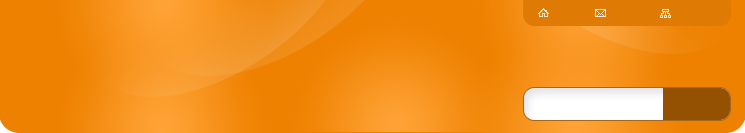
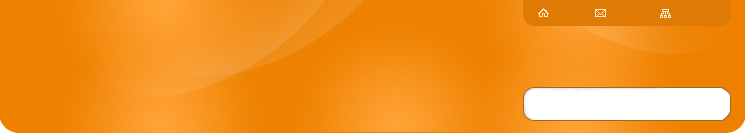
Fixing some errors and implementing fetch api

Changed region(s): [[0.8644, 0.6617, 0.9879, 0.9023]]

diff --git a/blog/static/css/style.css b/blog/static/css/style.css
@@ -16,10 +16,10 @@ form {
     }
 .count{
         position: absolute;
-        bottom: 21px;
-        right: 80px;
+        top: 93px;
+        right: 35px;
         }
-#count2{ margin:0; width: 125px; font-size: 85%; border: 0;color: #ee8100;}
+#count2{ margin:0; width: 180px; font-size: 115%; border: 0;color: #ee8100;}
 #post {
     width: 650px;
     height: 200px;
@@ -388,11 +388,24 @@ a.more:hover{color: #ffddb4;}
                 background-color: #0257d7;
                 color: white;
             }
+
+.button-d{
+        display: flex;
+        flex-direction: row;
+        align-items:center;
+        justify-content:space-between;
+}
 .f-left {float:left; color: white;}
 .f-right {float:right; color: white;}
 #footer  {
+    position: absolute;
+    bottom: 0;
+    left: 0;
+    margin: 0px;
     height: 85px;
     background: url(../img/footer-bg.jpg) repeat-x bottom;
+    width: 100vw;
+    top: 160vh;
     }
 #page-bottom{
         height: 46px;

diff --git a/blog/templates/home.html b/blog/templates/home.html
@@ -8,8 +8,8 @@
             <p>{{ (post.content[:680] + '  ......  ')}} <a href="{{url_for('detail' , post_id = post.id)}}" class="more">MORE</a></p>
         </div>
     {% endfor %}
-    {% if posts.has_prev %}<a href="{{ url_for('home', page=posts.prev_num) }}">&lt;&lt; Newer posts</a>
+    {% if page > 1 %}<a href="{{ url_for('home', page = page - 1) }}">&lt;&lt; Newer posts</a>
     {% else %}&lt;&lt; Newer posts{% endif %} | 
-    {% if posts.has_next %}<a href="{{ url_for('home', page=posts.next_num) }}">Older posts &gt;&gt;</a>
+    {% if count > page * 3 %}<a href="{{ url_for('home', page=page+1) }}">Older posts &gt;&gt;</a>
     {% else %}Older posts &gt;&gt;{% endif %}
 {% endblock content %}

diff --git a/blog/templates/base.html b/blog/templates/base.html
@@ -15,7 +15,7 @@
           <hr class="noscreen" />
           <div id="quicknav"> <a href="{{ url_for('home' , page=1) }}">Home</a> <a href="{{ url_for('about') }}"> . About</a> <a href="{{ url_for('contact') }}">.  Contact us</a> </div>
           <div class="count">
-              <h2 id="count2">Number of users :</h2>
+              <h2 id="count2">Number of users :&nbsp;&nbsp;&nbsp;&nbsp;&nbsp;&nbsp;&nbsp;&nbsp;{{ count }}</h2>
           </div>
         </div>
 {% include 'inc/nav.html' %}
@@ -32,5 +32,6 @@
       <p class="f-right">network</p>
   </div>
   </div>
+  <script src="../static/fechapi.js"></script>
 </body>
 </html>

diff --git a/blog/templates/detail.html b/blog/templates/detail.html
@@ -2,8 +2,10 @@
 
 {% block content %}
     {% if post.author == current_user %}
+    <div class=" button-d">
        <div id="delete"> <a  href="{{ url_for('delete' , post_id=post.id)}}">Delete</a></div>
         <div id="update"> <a  href="{{url_for('update' , post_id=post.id)}}">Update</a></div>
+    </div>
     {%endif %}
     <div>
         <h3>{{ post.title }} </h3>

diff --git a/blog/static/fechapi.js b/blog/static/fechapi.js
@@ -1,0 +1,7 @@
+const url = "http://127.0.0.1:5000/api/fetch";
+
+async function getcount(url) {
+    let x = await fetch(url);
+    let y = await x.text();
+    document.getElementById("count2").innerHTML = `Number of users :&nbsp;&nbsp;&nbsp;&nbsp;&nbsp;&nbsp;&nbsp;&nbsp; ${y} `;  }
+getcount(url);

diff --git a/blog/routes.py b/blog/routes.py
@@ -4,12 +4,22 @@ from blog.form import RegistrationForm , LoginForm , UpdateProfileForm , NewPost
 from blog.models import User , Post
 from flask_login import login_user , current_user , logout_user , login_required
 
-
+@app.route('/')
+def index():
+    return redirect(url_for('home' , page=1))
 @app.route("/index/<int:page>" , methods=['GET'])
 def home(page=1):
     per_page=3
-    posts = Post.query.paginate(page=page ,per_page=per_page ,error_out= False).items
-    return render_template('home.html' , posts=posts)
+    posts = Post.query.order_by(Post.date.desc()).paginate(page=page ,per_page=per_page ,error_out= True).items
+    #count_user = db.session.query(User).count()
+    count_post = db.session.query(Post).count()
+    #render_template('base.html' , count=count_user)
+    return render_template('home.html' , posts=posts , count=count_post ,page=page)
+
+@app.route('/api/fetch')
+def count():
+    count_user = db.session.query(User).count()
+    return str(count_user)
 
 @app.route("/post/<int:post_id>")
 def detail(post_id):
@@ -79,7 +89,7 @@ def login():
             login_user(user , remember=form.remember.data)
             next_page = request.args.get('next')
             flash('You have successfully logged in' , 'success')
-            return redirect(next_page if next_page else url_for('home'))
+            return redirect(next_page if next_page else url_for('home' ,page=1))
         else:
             flash('Username or password is incorrect' , 'danger')
     return render_template('login.html' , form=form)
